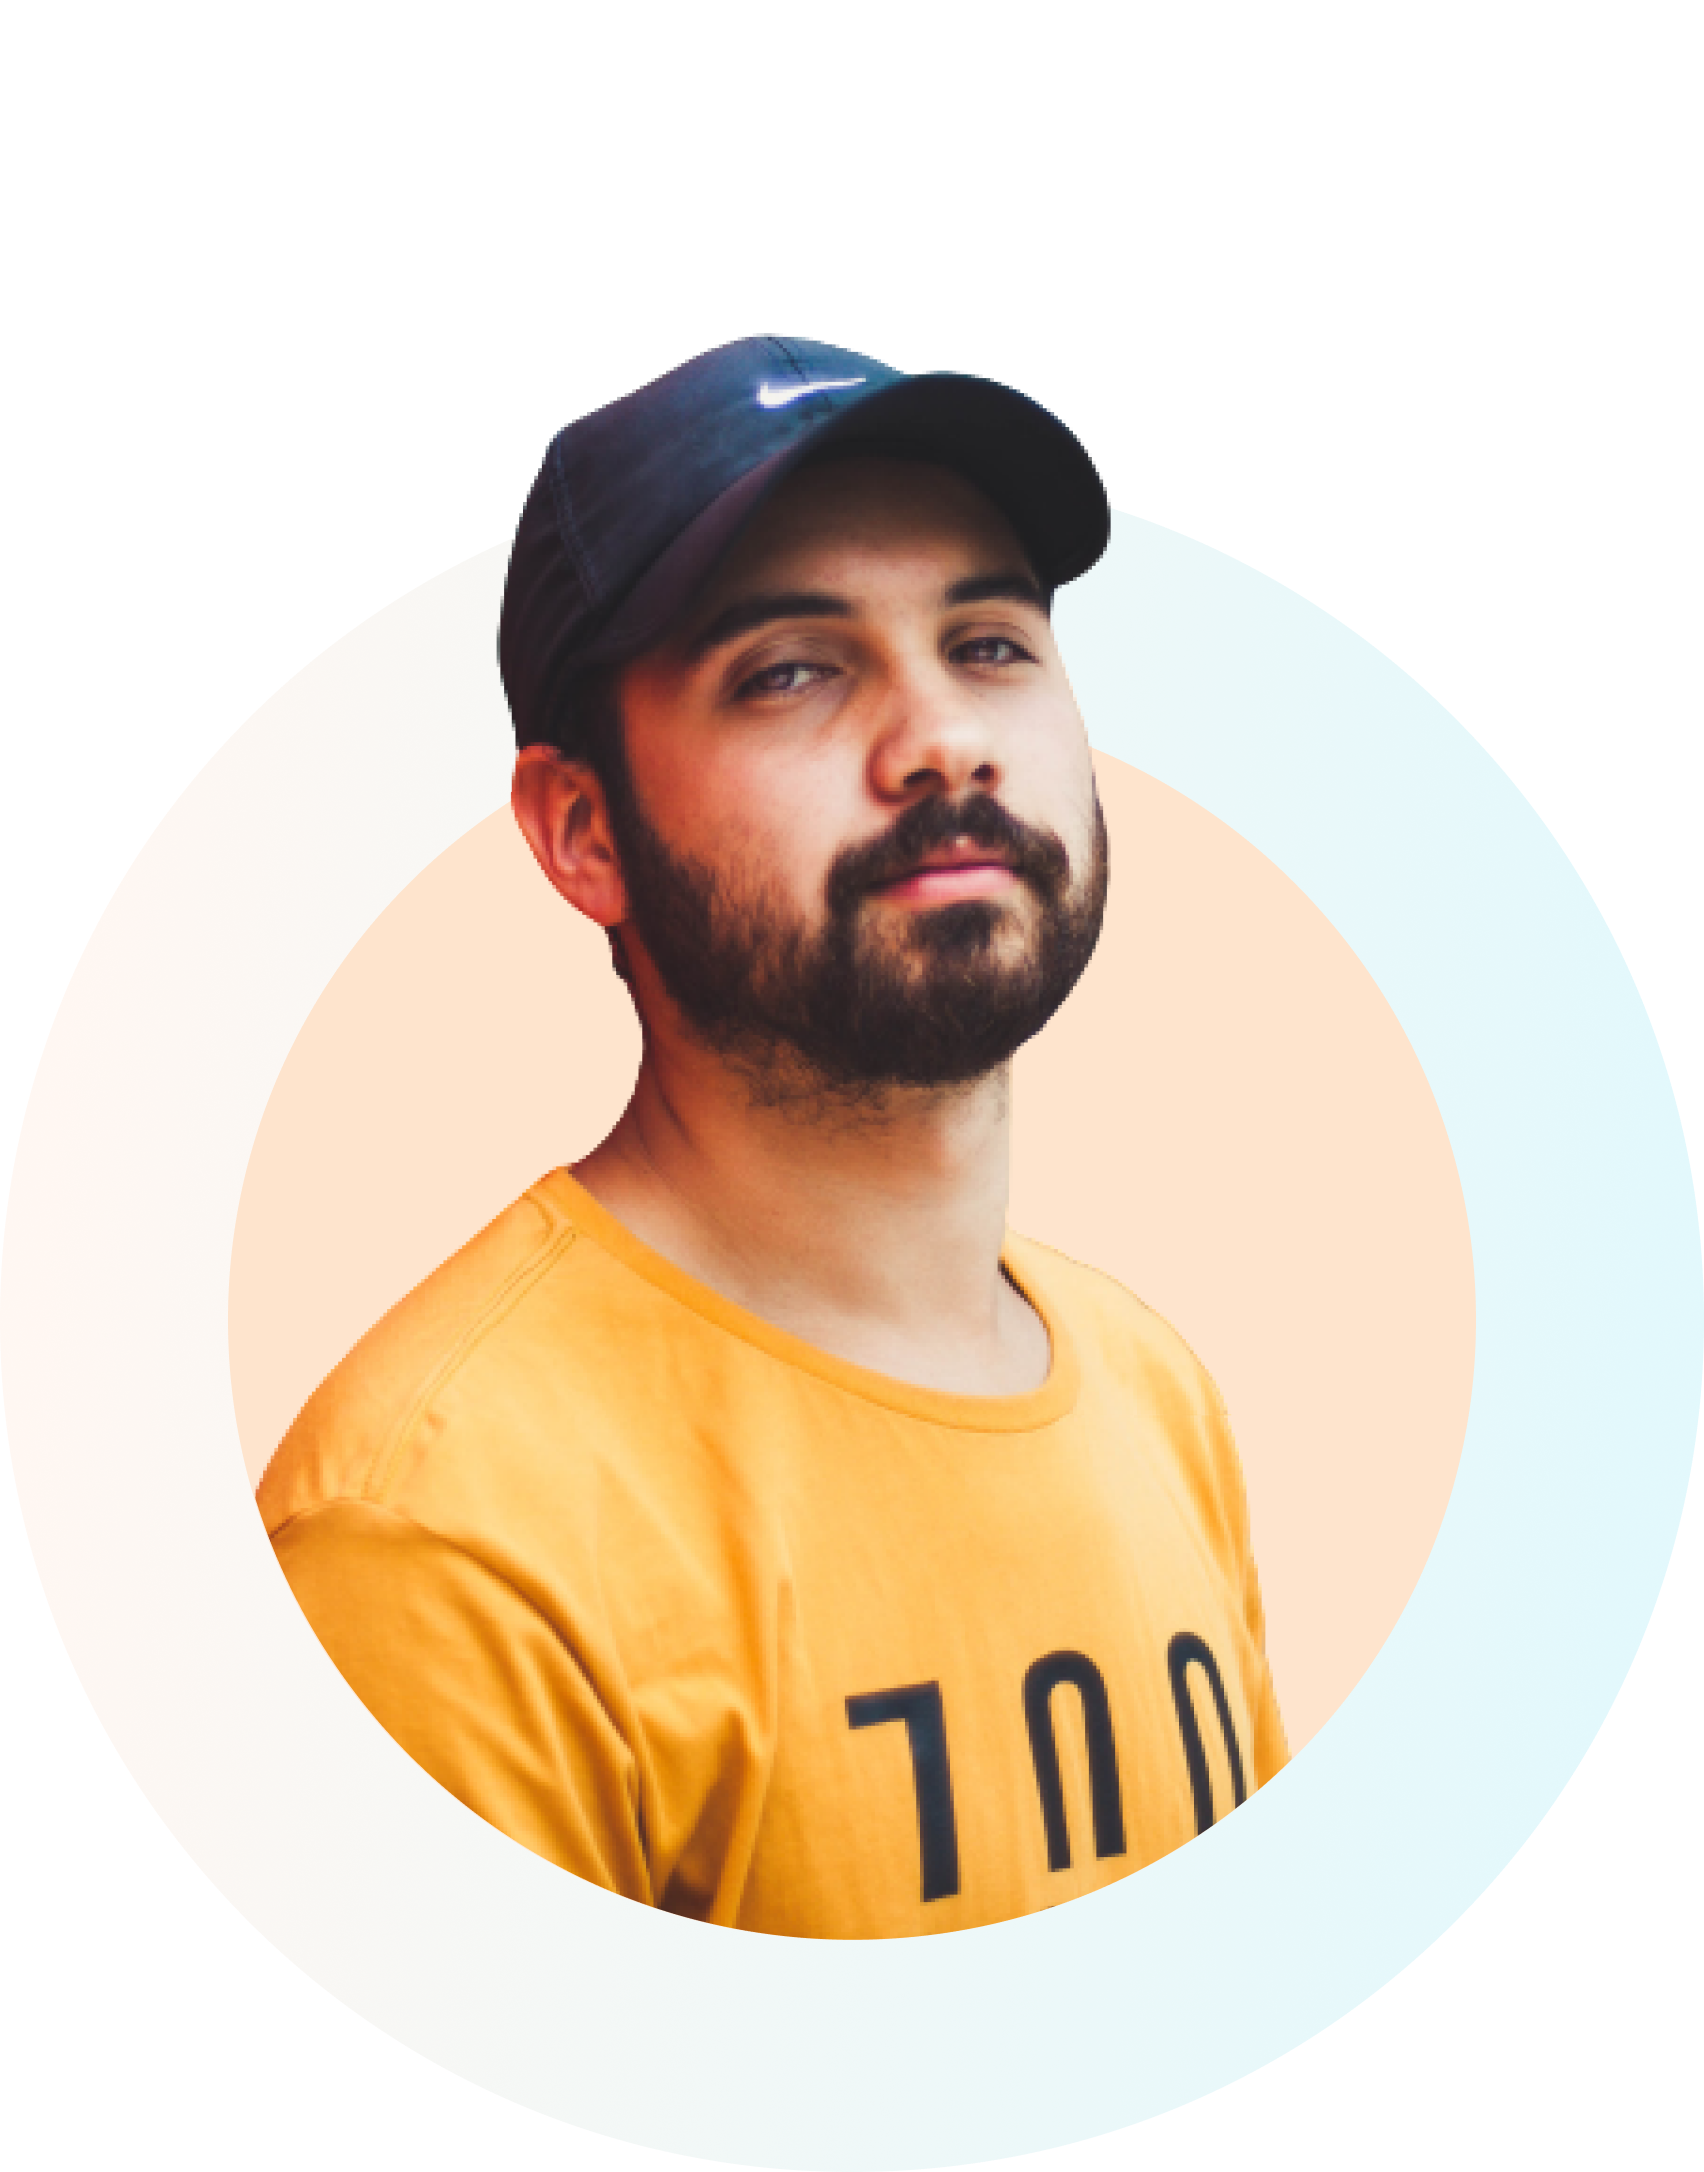
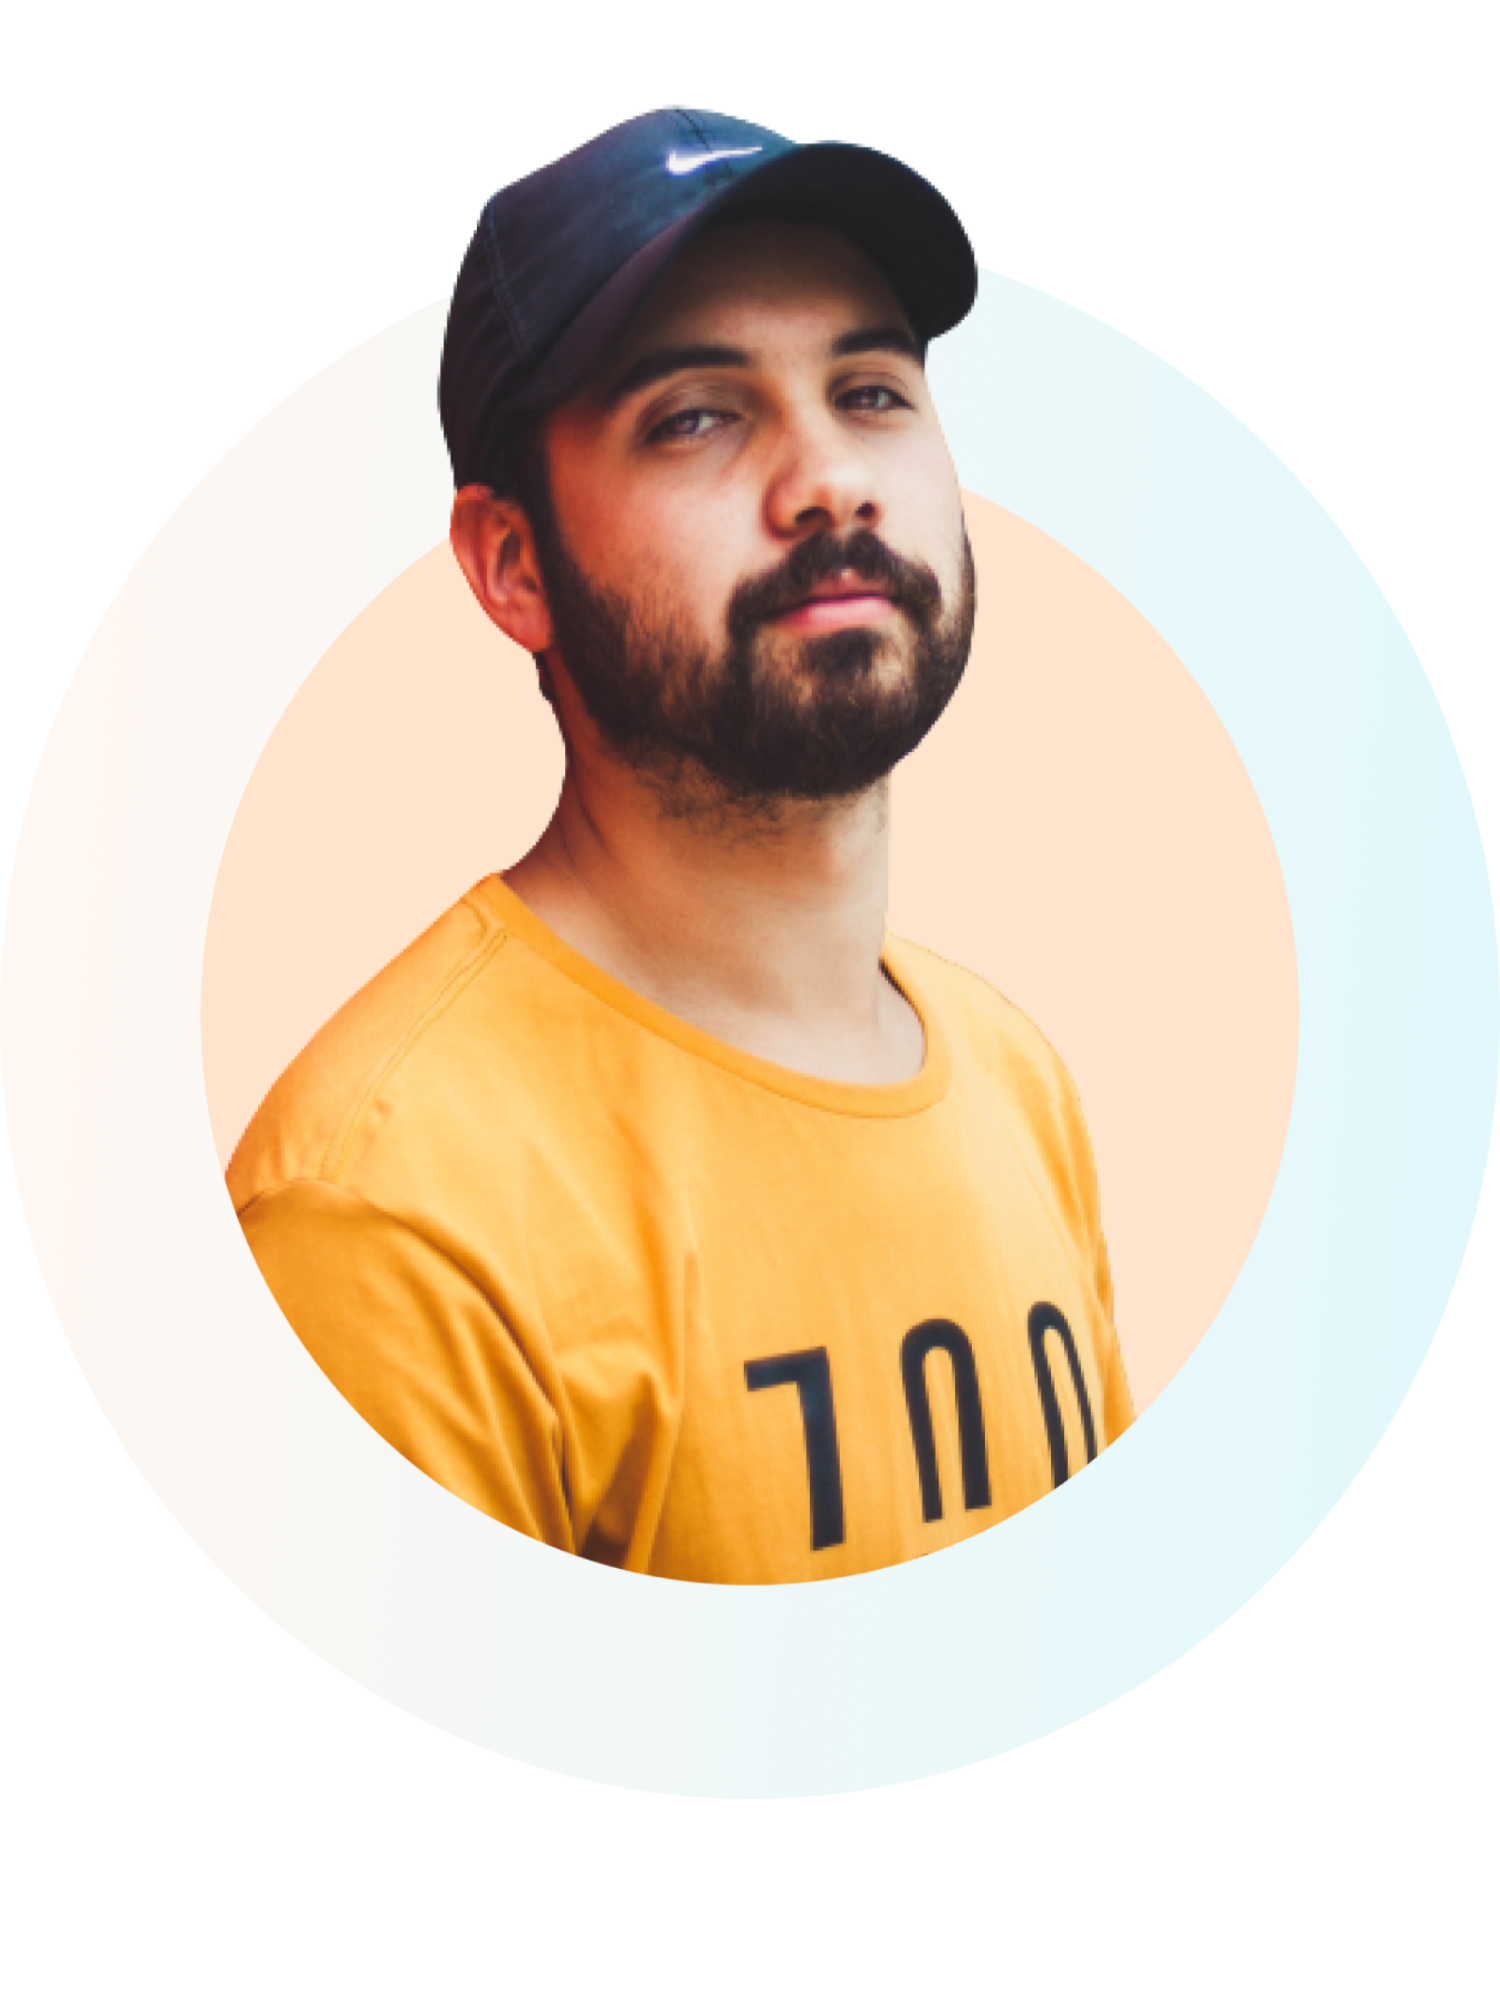
Team Member Complete

diff --git a/css/style.css b/css/style.css
@@ -14,7 +14,7 @@ ol {
 }
 
 body {
-  font-family: 'Poppins', sans-serif;
+  font-family: "Poppins", sans-serif;
   /* font-family: 'Yeseva One', cursive; */
   background: #e5e5e5;
 }
@@ -44,7 +44,7 @@ body {
   text-transform: capitalize;
   font-weight: 800;
   font-size: 37px;
-  font-family: 'Poppins';
+  font-family: "Poppins";
 }
 
 .title span {
@@ -64,7 +64,7 @@ body {
 }
 
 .hero_top_flexBox_left h1 {
-  font-family: 'Yeseva One', cursive;
+  font-family: "Yeseva One", cursive;
   font-weight: 400;
   font-size: 51px;
   text-transform: capitalize;
@@ -83,13 +83,13 @@ body {
   width: 486px;
   font-weight: 300;
   font-size: 17px;
-  font-family: 'Poppins', sans-serif;
+  font-family: "Poppins", sans-serif;
   margin-bottom: 30px;
 }
 
 .hero_top_flexBox_left small {
   display: block;
-  font-family: 'Poppins', sans-serif;
+  font-family: "Poppins", sans-serif;
   font-weight: 300;
   font-size: 16px;
   color: #434343;
@@ -128,7 +128,7 @@ body {
 }
 .my_dream_flexBox div h3 {
   color: #000000;
-  font-family: 'Poppins', sans-serif;
+  font-family: "Poppins", sans-serif;
   font-weight: 700;
   font-size: 26px;
   margin-top: 10px;
@@ -138,7 +138,7 @@ body {
 .my_dream_flexBox div p {
   font-size: 16px;
   margin-top: 20px;
-  font-family: 'Poppins';
+  font-family: "Poppins";
   font-weight: 400;
   color: #424242;
 }
@@ -156,7 +156,7 @@ body {
 
 #noLimit_dev {
   margin-bottom: 70px;
-  background-image: url('../images/shapes/shape-1.png');
+  background-image: url("../images/shapes/shape-1.png");
   background-repeat: no-repeat;
   background-position: 4%;
   background-size: 14%;
@@ -181,7 +181,7 @@ body {
 }
 
 .noLimit_dev_right h2 {
-  font-family: 'Poppins', sans-serif;
+  font-family: "Poppins", sans-serif;
   font-weight: bold;
   font-size: 1.8rem;
   color: #333333;
@@ -189,7 +189,7 @@ body {
 }
 
 .noLimit_dev_right p {
-  font-family: 'Poppins', sans-serif;
+  font-family: "Poppins", sans-serif;
   font-weight: 400;
   font-size: 0.9rem;
   color: #3e3e3e;
@@ -202,7 +202,7 @@ body {
 
 #our_community {
   margin-bottom: 70px;
-  background-image: url('../images/shapes/shape-1.png');
+  background-image: url("../images/shapes/shape-1.png");
   background-repeat: no-repeat;
   background-position: 95% 95%;
   background-size: 14%;
@@ -227,7 +227,7 @@ body {
   width: 50%;
 }
 .our_community_left h2 {
-  font-family: 'Poppins', sans-serif;
+  font-family: "Poppins", sans-serif;
   font-weight: bold;
   font-size: 1.8rem;
   color: #333333;
@@ -235,7 +235,7 @@ body {
 }
 
 .our_community_left p {
-  font-family: 'Poppins', sans-serif;
+  font-family: "Poppins", sans-serif;
   font-weight: 400;
   font-size: 0.9rem;
   color: #3e3e3e;
@@ -248,6 +248,10 @@ body {
 
 #team_member {
   margin-bottom: 70px;
+  background-image: url(../images/shapes/shape-6.png);
+  background-position: left;
+  background-repeat: no-repeat;
+  background-size: 12% 100%;
 }
 
 .team_member_flexBox {
@@ -255,21 +259,23 @@ body {
   justify-content: space-around;
 }
 .team_member_flexBox .infoBox {
-  width: 30%;
-  background-color: #ffad5a;
+  width: 26%;
+  background-color: #ffad5a5e;
   height: auto;
   text-align: center;
   border-radius: 15px;
-  padding: 1.5rem 1rem;
+  padding: 1.8rem 1rem;
 }
 
 .team_member_flexBox .infoBox img {
   width: 50%;
 }
 .team_member_flexBox .infoBox h2 {
+  color: #434343;
 }
 
 .team_member_flexBox .infoBox p {
+  color: #333333;
 }
 
 .team_member_flexBox .infoBox ul {
@@ -288,9 +294,12 @@ body {
   margin-top: 1rem;
   align-items: center;
   justify-content: center;
+  box-shadow: 0px 0px 1px 4px rgb(203 236 253 / 63%);
 }
 .team_member_flexBox .infoBox ul li i {
-  font-size: 100%;
+  color: #ffad5a;
+  cursor: pointer;
+  font-size: 1.5rem;
 }
 
 /* END OF TEAM_MEMBER CSS */
@@ -302,7 +311,7 @@ body {
 
 #footer h2 {
   color: #e5e5e5;
-  font-family: 'Lobster', cursive;
+  font-family: "Lobster", cursive;
   letter-spacing: 2px;
 }
 #footer h2 span {
@@ -311,7 +320,7 @@ body {
 
 #footer p {
   color: #d9dbe1;
-  font-family: 'Poppins', sans-serif;
+  font-family: "Poppins", sans-serif;
   font-weight: 300;
   font-size: 12px;
   margin-top: 1rem;

diff --git a/index.html b/index.html
@@ -133,16 +133,59 @@
     </section>
     <!-- COMMUNITY SECTION END  -->
     <section id="team_member">
+      <div class="title">
+        <h2><span>Our</span> Team Members</h2>
+      </div>
       <div class="container">
         <div class="team_member_flexBox">
           <div class="team_member_left infoBox">
-            <img src="./images/person/person-2.png" alt="img1" />
+            <img src="./images/person/person02007x1967.png" alt="img1" />
             <h2>Jhon Dow</h2>
             <p>Manager</p>
             <ul>
-              <li><i class="fab fa-facebook"></i></li>
-              <li><i class="fab fa-whatsapp"></i></li>
-              <li><i class="fab fa-discord"></i></li>
+              <li>
+                <a href="#"><i class="fab fa-facebook"></i></a>
+              </li>
+              <li>
+                <a href="#"><i class="fab fa-whatsapp"></i></a>
+              </li>
+              <li>
+                <a href="#"><i class="fab fa-discord"></i></a>
+              </li>
+            </ul>
+          </div>
+
+          <div class="team_member_midile infoBox">
+            <img src="./images/person/person-1.png" alt="img1" />
+            <h2>Max Levchin</h2>
+            <p>software Engineer</p>
+            <ul>
+              <li>
+                <a href="#"><i class="fab fa-facebook"></i></a>
+              </li>
+              <li>
+                <a href="#"><i class="fab fa-whatsapp"></i></a>
+              </li>
+              <li>
+                <a href="#"><i class="fab fa-discord"></i></a>
+              </li>
+            </ul>
+          </div>
+
+          <div class="team_member_right infoBox">
+            <img src="./images/person/person-5.png" alt="img1" />
+            <h2>Tanvir Jishan</h2>
+            <p>Backend Developer</p>
+            <ul>
+              <li>
+                <a href="#"><i class="fab fa-facebook"></i></a>
+              </li>
+              <li>
+                <a href="#"><i class="fab fa-whatsapp"></i></a>
+              </li>
+              <li>
+                <a href="#"><i class="fab fa-discord"></i></a>
+              </li>
             </ul>
           </div>
         </div>
